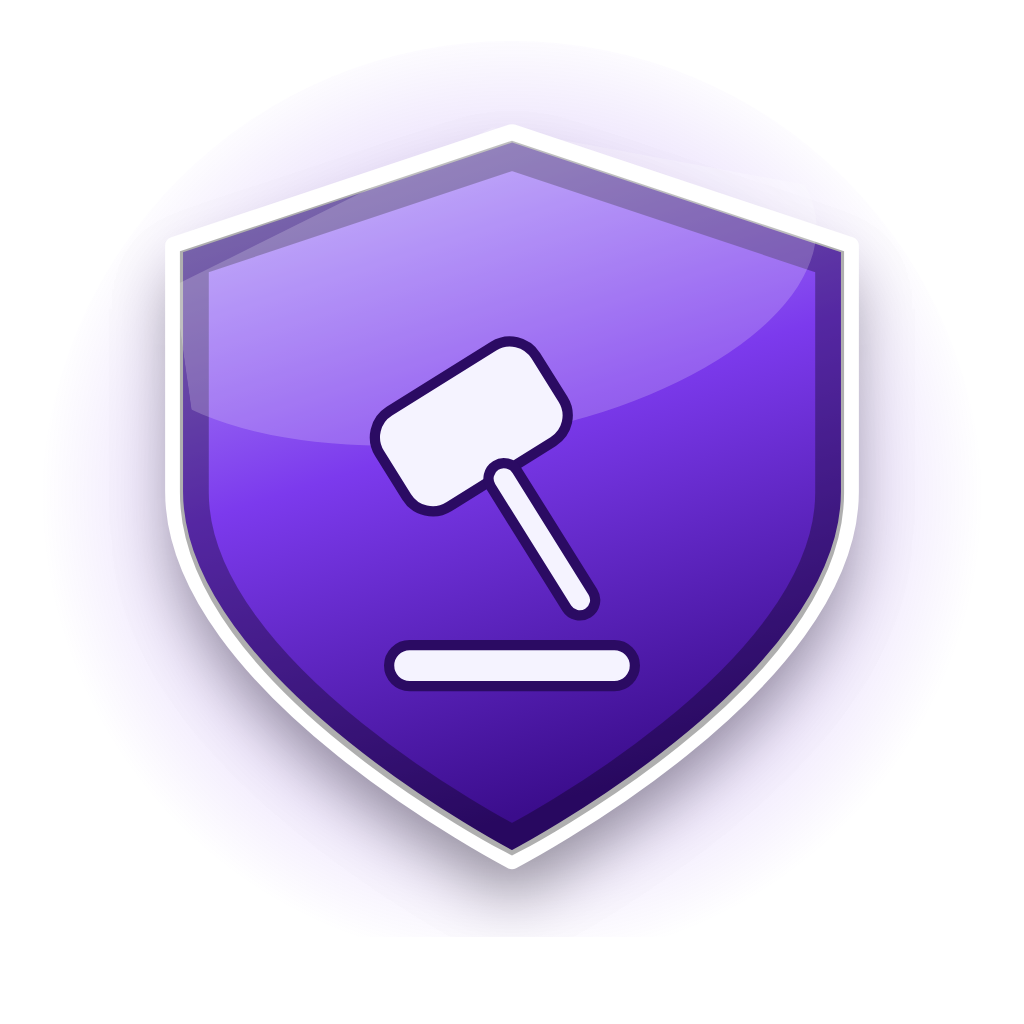
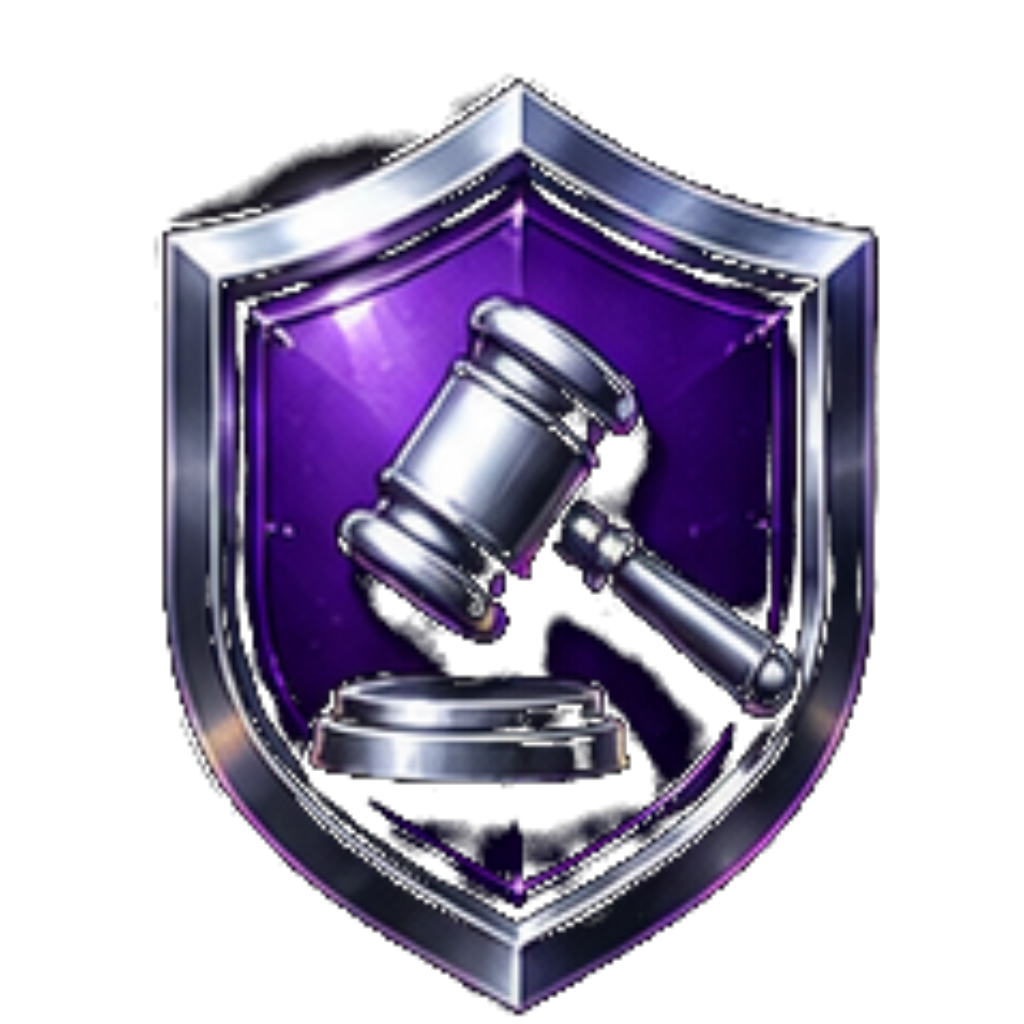
Premium rozet seti: kullanıcının kendi ürettiği görselleri gerçek boyutta ekranlara bağla
Kullanıcının GPT ile ürettirdiği 4x5 grid referans görselini piksel-hassas
kırpıp (siyah zemin -> gerçek şeffaflık, 1024x1024) assets/badges/ altına
kategori klasörleriyle yerleştirdi: level (6 seviye kademesi), role
(developer/super_admin/admin/moderator/streamer/vip/vip_hukumdar), room
(haftanın şampiyonu/sıralama madalyaları/yükselen yıldız/top gifter/günlük
seri), special (beta tester).

PngBadge bileşeni + levelTierBadge() yardımcı fonksiyonuyla bağlandı:
- Profil: rozet vitrini + Demo · Beta Tester toggle
- Diğer kullanıcı profili: seviye kademesi rozeti
- Admin kullanıcı hub'ı: rol + seviye rozeti kimlik kartında
- Sıralama podyumu: 1./2./3. için oda rozetleri

Claude-Session: https://claude.ai/code/session_01FFBK9gwZdbywsPLfswHnhK

diff --git a/src/components/PngBadge.tsx b/src/components/PngBadge.tsx
@@ -12,6 +12,7 @@ const IMG = {
   role_admin: require("@/assets/badges/role/admin.png"),
   role_moderator: require("@/assets/badges/role/moderator.png"),
   role_streamer: require("@/assets/badges/role/streamer.png"),
+  role_vip: require("@/assets/badges/role/vip.png"),
   role_vip_hukumdar: require("@/assets/badges/role/vip_hukumdar.png"),
   room_weekly_champion: require("@/assets/badges/room/weekly_champion.png"),
   room_rank_silver: require("@/assets/badges/room/rank_silver.png"),
@@ -24,7 +25,7 @@ const IMG = {
 
 export type PngBadgeName = keyof typeof IMG;
 
-/** Yeni premium PNG rozet seti (level/role/room/special) — gerçek 1024px asset, kod-üretimi. */
+/** Premium PNG rozet seti (level/role/room/special) — kullanıcının kendi ürettiği gerçek sanat eseri. */
 export function PngBadge({ name, size = 48 }: { name: PngBadgeName; size?: number }) {
   return <Image source={IMG[name]} style={{ width: size, height: size }} contentFit="contain" />;
 }

diff --git a/src/app/(tabs)/profile.tsx b/src/app/(tabs)/profile.tsx
@@ -171,7 +171,7 @@ export default function ProfileTab() {
             <Pill bg="rgba(255,255,255,.05)" color={C.dim} border={C.line}>🇹🇷 Türkiye</Pill>
           </View>
 
-          {/* Premium rozet vitrini — yeni PNG set (level/role/beta), gerçek boyutta */}
+          {/* Premium rozet vitrini — gerçek boyutta */}
           <View style={styles.premiumRow}>
             <PngBadge name={levelTierBadge(userLevel)} size={52} />
             {role === "developer" && <PngBadge name="role_developer" size={52} />}
